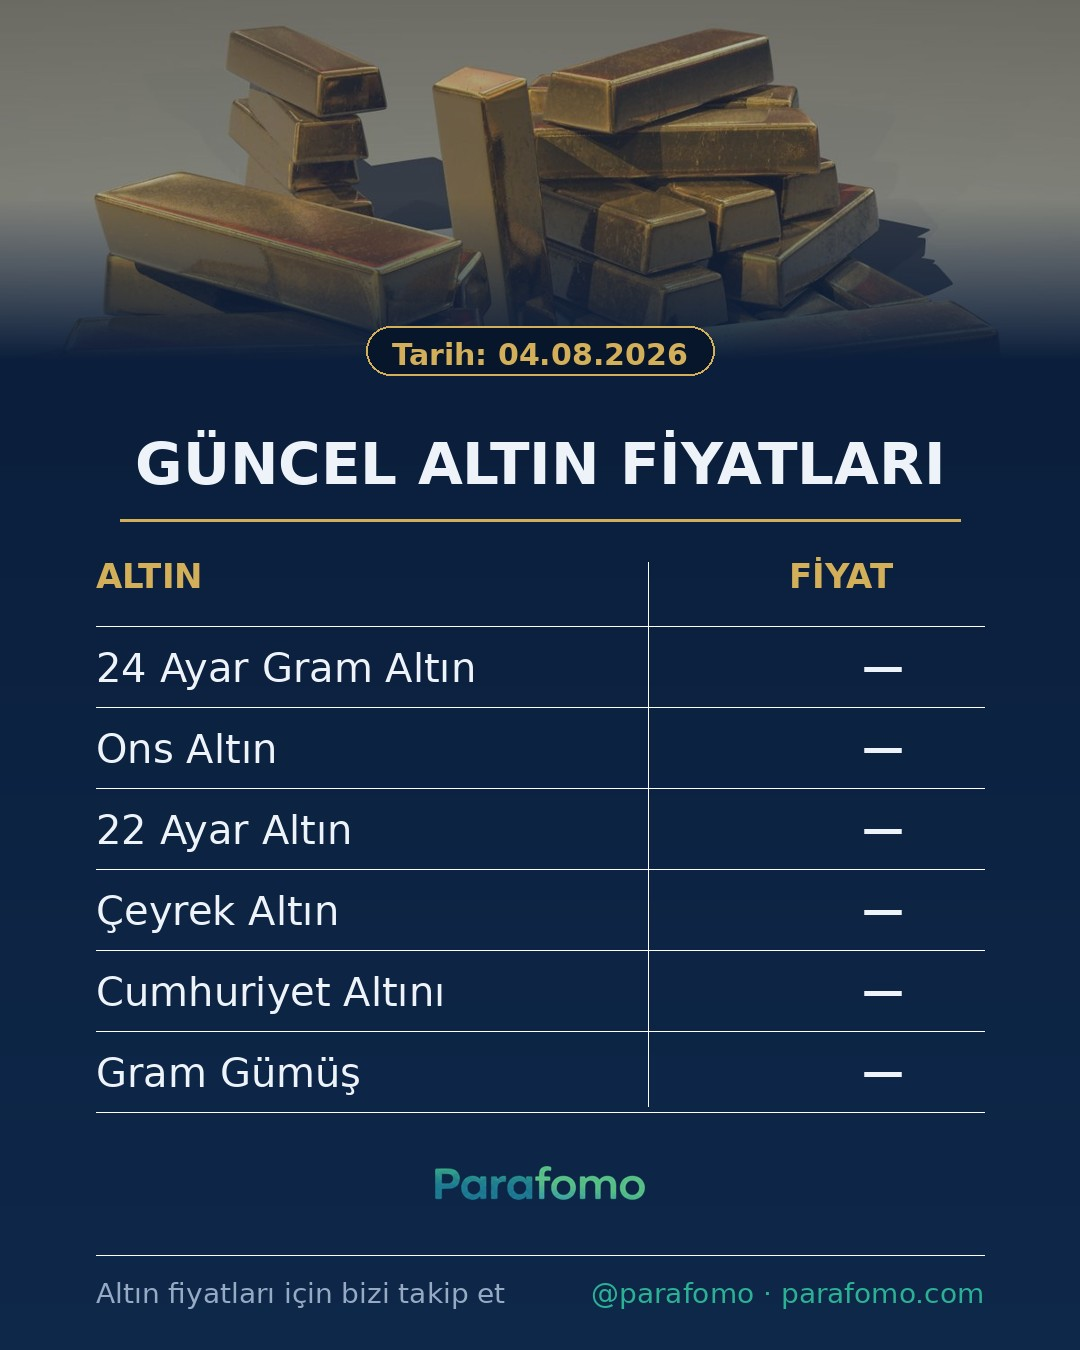
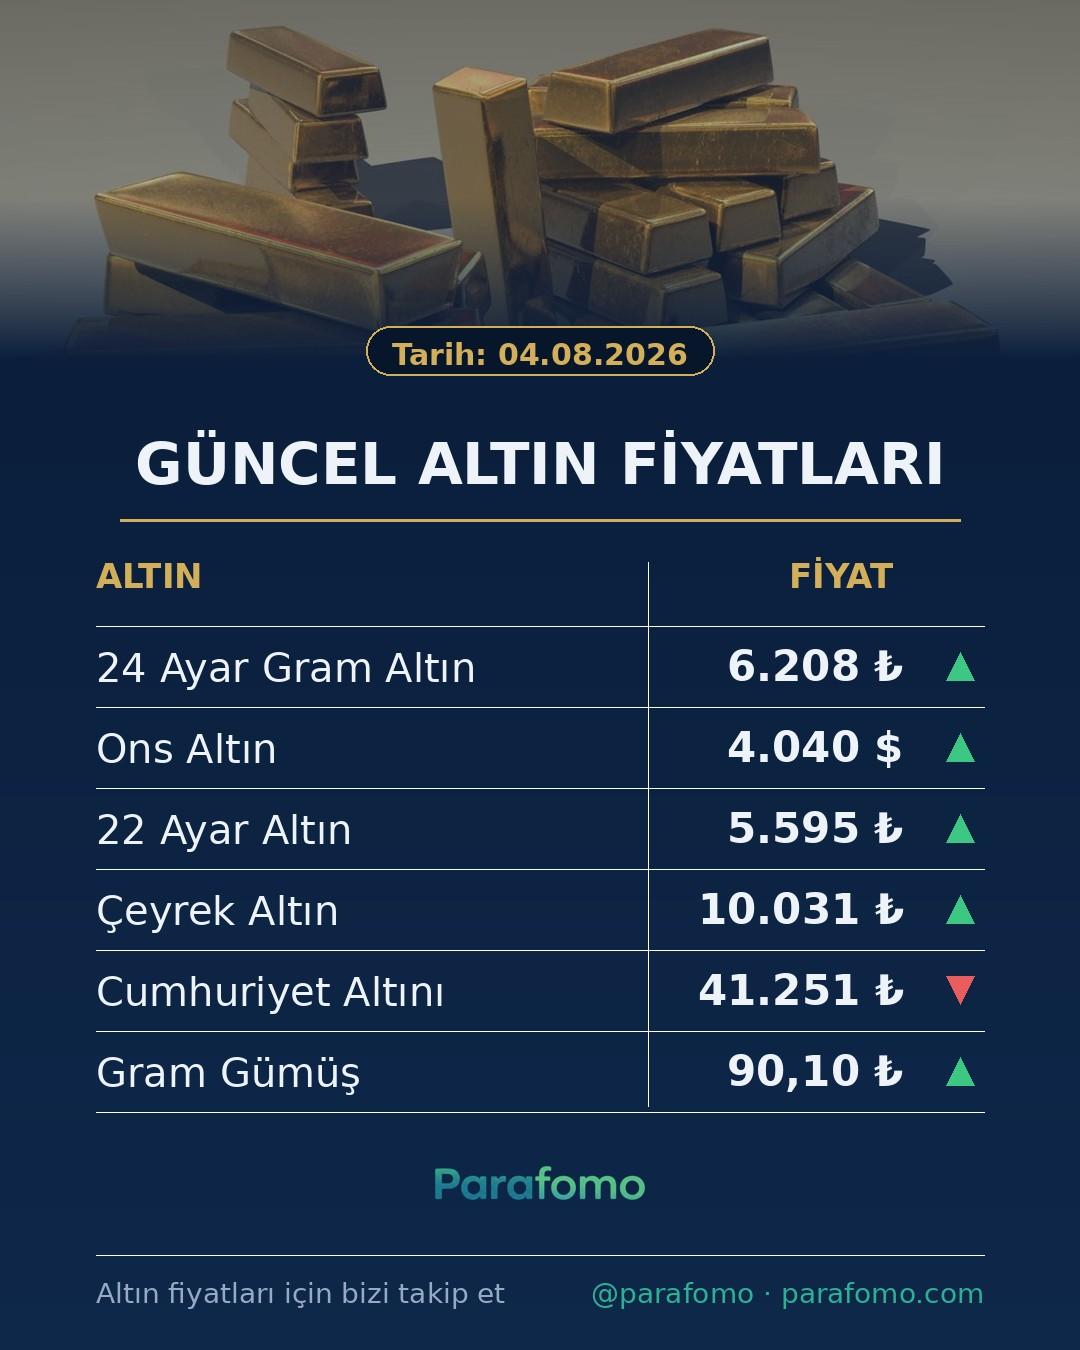
fix: altın/BIST kartlarında fiyat kaynağı düzeltildi
Truncgil v4 today.json fiyat alanlarını boşalttı → v3'e geçildi
(anahtarlar küçük-harf tireli, değerler Türkçe biçimli string → _num parser).
BIST 100 v3'te yok → Yahoo Finance (XU100.IS). Çeyrek/gram/cumhuriyet/gümüş
ve BIST/USD/EUR fiyatları yeniden görünüyor.

diff --git a/scripts/altin-card.py b/scripts/altin-card.py
@@ -15,6 +15,7 @@ Kullanım:
 Bağımlılık: Pillow (venv'de). Salt standart kütüphane + PIL. Token harcamaz.
 """
 import json
+import json
 import os
 import re
 import sys
@@ -26,7 +27,7 @@ ROOT = os.path.dirname(os.path.dirname(os.path.abspath(__file__)))
 OUT_DIR = os.path.join(ROOT, "public", "social")
 GOLD_ASSET = os.path.join(ROOT, "public", "social", "assets", "gold-bars.jpg")
 WORDMARK = os.path.join(ROOT, "public", "parafomo-wordmark.png")
-API = "https://finans.truncgil.com/v4/today.json"
+API = "https://finans.truncgil.com/v3/today.json"
 
 W, H = 1080, 1350
 FONT_DIR = "/usr/share/fonts/truetype/dejavu"
@@ -54,26 +55,38 @@ def fmt_tr(n, decimals=0):
     return s
 
 
+def _num(s):
+    """Türkçe biçimli sayı → float. '6.208,20'->6208.2, '%0,18'->0.18. None-safe."""
+    if s is None:
+        return None
+    s = str(s).replace("%", "").strip().replace(".", "").replace(",", ".")
+    try:
+        return float(s)
+    except ValueError:
+        return None
+
+
 def fetch():
+    # NOT: Truncgil v4 today.json fiyat alanlarını boşalttı (2026-08); v3 çalışıyor.
+    # v3 anahtarları küçük-harf tireli, değerler Türkçe biçimli string ("6.208,20").
     req = urllib.request.Request(API, headers={"User-Agent": "Mozilla/5.0 (ParaFOMO)"})
-    text = urllib.request.urlopen(req, timeout=20).read().decode("utf-8", "ignore")
+    data = json.loads(urllib.request.urlopen(req, timeout=20).read().decode("utf-8", "ignore"))
 
     def pick(key, prop):
-        m = re.search(r'"' + re.escape(key) + r'"\s*:\s*\{[^}]*?"' + prop + r'"\s*:\s*(-?[0-9.]+)', text)
-        return float(m.group(1)) if m else None
+        return _num((data.get(key) or {}).get(prop))
 
-    gra = pick("GRA", "Selling")
-    has = pick("HAS", "Selling")
+    gra = pick("gram-altin", "Selling")
+    has = pick("gram-has-altin", "Selling")
     usd = pick("USD", "Selling")
-    # Ons (USD): Truncgil ONS alanı 0 dönüyor; gram has + USD'den türet (saf 24 ayar).
+    # Ons (USD): gram has altın + USD'den türet (saf 24 ayar).
     ons = (has * 31.1035 / usd) if (has and usd) else None
     rows = [
-        ("24 Ayar Gram Altın", gra, pick("GRA", "Change"), "₺", 0),
-        ("Ons Altın", ons, pick("HAS", "Change"), "$", 0),
-        ("22 Ayar Altın", pick("YIA", "Selling"), pick("YIA", "Change"), "₺", 0),
-        ("Çeyrek Altın", pick("CEYREKALTIN", "Selling"), pick("CEYREKALTIN", "Change"), "₺", 0),
-        ("Cumhuriyet Altını", pick("CUMHURIYETALTINI", "Selling"), pick("CUMHURIYETALTINI", "Change"), "₺", 0),
-        ("Gram Gümüş", pick("GUMUS", "Selling"), pick("GUMUS", "Change"), "₺", 2),
+        ("24 Ayar Gram Altın", gra, pick("gram-altin", "Change"), "₺", 0),
+        ("Ons Altın", ons, pick("gram-has-altin", "Change"), "$", 0),
+        ("22 Ayar Altın", pick("22-ayar-bilezik", "Selling"), pick("22-ayar-bilezik", "Change"), "₺", 0),
+        ("Çeyrek Altın", pick("ceyrek-altin", "Selling"), pick("ceyrek-altin", "Change"), "₺", 0),
+        ("Cumhuriyet Altını", pick("cumhuriyet-altini", "Selling"), pick("cumhuriyet-altini", "Change"), "₺", 0),
+        ("Gram Gümüş", pick("gumus", "Selling"), pick("gumus", "Change"), "₺", 2),
     ]
     return rows
 

diff --git a/scripts/bist-card.py b/scripts/bist-card.py
@@ -24,7 +24,8 @@ ROOT = os.path.dirname(os.path.dirname(os.path.abspath(__file__)))
 OUT_DIR = os.path.join(ROOT, "public", "social")
 WORDMARK = os.path.join(ROOT, "public", "parafomo-wordmark.png")
 BG_ASSET = os.path.join(ROOT, "public", "social", "assets", "bist-bg.jpg")
-TG = "https://finans.truncgil.com/v4/today.json"
+TG = "https://finans.truncgil.com/v3/today.json"
+YF = "https://query1.finance.yahoo.com/v8/finance/chart/XU100.IS?interval=1d&range=5d"
 CG = "https://api.coingecko.com/api/v3/simple/price?ids=bitcoin&vs_currencies=usd&include_24hr_change=true"
 FONT_DIR = "/usr/share/fonts/truetype/dejavu"
 
@@ -44,19 +45,40 @@ def fmt_tr(n, d=0):
     return f"{n:,.{d}f}".replace(",", "§").replace(".", ",").replace("§", ".")
 
 
+def _num(s):
+    """Türkçe biçimli sayı → float. '6.208,20'->6208.2, '%0,18'->0.18. None-safe."""
+    if s is None:
+        return None
+    s = str(s).replace("%", "").strip().replace(".", "").replace(",", ".")
+    try:
+        return float(s)
+    except ValueError:
+        return None
+
+
 def fetch():
-    t = urllib.request.urlopen(urllib.request.Request(TG, headers={"User-Agent": "Mozilla/5.0"}), timeout=20).read().decode("utf-8", "ignore")
+    # Truncgil v3 (v4 fiyatları boşalttı) — USD/EUR/gram-altın.
+    tj = json.loads(urllib.request.urlopen(urllib.request.Request(TG, headers={"User-Agent": "Mozilla/5.0"}), timeout=20).read().decode("utf-8", "ignore"))
 
     def pick(k, p):
-        m = re.search(r'"' + re.escape(k) + r'"\s*:\s*\{[^}]*?"' + p + r'"\s*:\s*(-?[0-9.]+)', t)
-        return float(m.group(1)) if m else None
+        return _num((tj.get(k) or {}).get(p))
 
     data = {
-        "bist": (pick("XU100", "Selling"), pick("XU100", "Change")),
         "usd": (pick("USD", "Selling"), pick("USD", "Change")),
         "eur": (pick("EUR", "Selling"), pick("EUR", "Change")),
-        "gold": (pick("GRA", "Selling"), pick("GRA", "Change")),
+        "gold": (pick("gram-altin", "Selling"), pick("gram-altin", "Change")),
     }
+    # BIST 100 (XU100) — Truncgil'de YOK → Yahoo Finance.
+    try:
+        y = json.loads(urllib.request.urlopen(urllib.request.Request(YF, headers={"User-Agent": "Mozilla/5.0"}), timeout=20).read())
+        meta = y["chart"]["result"][0]["meta"]
+        price = meta.get("regularMarketPrice")
+        prev = meta.get("chartPreviousClose") or meta.get("previousClose")
+        chg = ((price - prev) / prev * 100) if (price and prev) else None
+        data["bist"] = (price, chg)
+    except Exception:
+        data["bist"] = (None, None)
+    # Bitcoin (CoinGecko)
     try:
         d = json.loads(urllib.request.urlopen(urllib.request.Request(CG, headers={"User-Agent": "Mozilla/5.0"}), timeout=20).read())
         data["btc"] = (d["bitcoin"]["usd"], d["bitcoin"]["usd_24h_change"])
